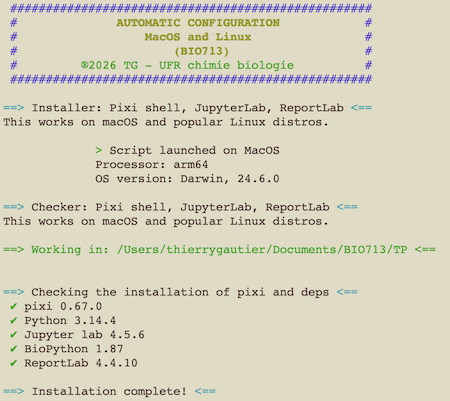
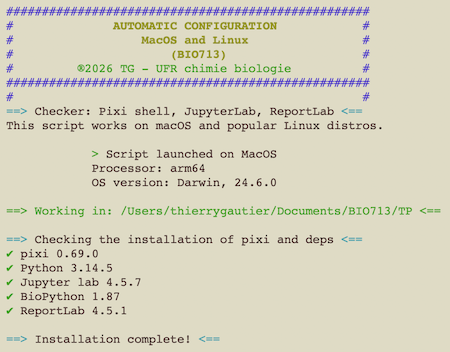
Polishing release V2.0

Changed region(s): [[0.0, 0.0, 0.9956, 1.0]]

diff --git a/README.md b/README.md
@@ -11,7 +11,10 @@ Please use carefully.
 
 ## Usage
 
-- Installation of the environment: To install the required modules, open your terminal (inside `Applications/Utilities` on MacOS) and type the following command. The script will create the folder hierarchy, install [pixi](https://pixi.prefix.dev/latest/advanced/pixi_shell/), [python](https://www.python.org/), [biopython](https://biopython.org/), [reportlab](https://docs.reportlab.com/) and [Jupyter Lab](https://jupyter.org/).
+- Installation of the environment: To install the required modules, open your terminal (inside `Applications/Utilities` on MacOS) and type the following command.
+- The script will create:
+    - the folder hierarchy
+    - install [pixi](https://pixi.prefix.dev/latest/advanced/pixi_shell/), [python](https://www.python.org/), [biopython](https://biopython.org/), [reportlab](https://docs.reportlab.com/) and [Jupyter Lab](https://jupyter.org/).
 
 ```
 ./Install
@@ -20,7 +23,8 @@ Please use carefully.
 
 ![pixi](imgs/install.png)
 
-- The activation and use of the environment will be explain during the class. In the meantime, you can check the validity of your installation by typing:
+- The activation and use of the environment will be explain during the class.
+- In the meantime, you can check the validity of your installation by typing:
 
 ```
 ./Install --check
@@ -31,9 +35,10 @@ Please use carefully.
 
 ![ubuntu](imgs/Ubuntu.png)
 
-## Check your environment directly from python
+## Checking your environment directly from python
 
-A python script is also provided to check the correct environment in `Python` or in `Jupyter`:
+- A python script is also provided to check the correct environment in `Python` or in `Jupyter.
+- This suppose that you already have a working python setup or that you successfully (re)install python.
 
 ```
 python Check.py
@@ -46,19 +51,19 @@ python Check.py
 
 ![help](imgs/found.png)
 
-Alernatively, you can copy-paste the code into a Jupyter cell and run the cell.
+- Alernatively, you can copy-paste the code into a Jupyter cell and run the cell.
 
 ## Prerequisites
 
-The scripts should work on any computer running a modern OS (MacOS from Sequoia+, or Linux)
-Unix users (MacOS and Linux) will need the terminal.app located in `Applications/Utilities` on MacOS systems (Adapt names if your OS is not running in US English language).
+- The scripts should work on any computer running a modern OS (MacOS from Sequoia+, or Debian/Ubuntu Linux).
+- Unix users (MacOS and Linux) will need the terminal.app located in `Applications/Utilities` on MacOS systems (Adapt names if your OS is not running in US English language).
 
-Another script for the `PowerShell` application on Windows machines is provided "as is". It had not been extensively tested so use with caution:
+- Another script for the `PowerShell` application on Windows machines is provided "as is". It has not been extensively tested, **so use with caution**:
 
-- Open PowerShell on your Windows machine and run the script or double-clik the script `Windows_Install.ps1`
-- In case of installation failure, proceed with the manual install.
+- Open `PowerShell` on your Windows machine and run the script or double-click the script `Windows_Install.ps1`
+- In case of an installation failure, proceed with the manual install instead (see the course Moodle page) or wait for the first practical session to sort out the installation issue(s).
 
-The activation and the manipulation of the environment will be discussed during the class.
+- The activation and the manipulation of the environment will be discussed during the class.
 
 ## Desinstallation
 
@@ -69,18 +74,20 @@ The activation and the manipulation of the environment will be discussed during 
 ```
 
 ![pixi](imgs/remove.png)
+
 - Windows users can revert by typing in the PowerShell:
 
 ```
 .\Win_install.ps1 -Remove
 ```
 
-The script will attempt to remove as much as possible:
+- The script will attempt to remove as much as possible:
 
-- The complete folder hierarchy containing all the downloaded data (`~/Documents/BIO713` and enclosed directories).
-- The module containing folder located in `~/Documents/BIO713/TP`.
-- The `pixi` program should be removed only when it was installed by the `Install.sh` script.
-- When `pixi` has been removed either programatically or manually, check that the path has also been cleaned by removing or commenting the line in your shell config file. Typically `~/.bashrc`, `~/.zshrc` or eventually `~/.config/fish/config.fish`. The file to look for is `export PATH="$HOME/.pixi/bin:$PATH"` or `fish_add_path $HOME/.pixi/bin`.
+    - The complete folder hierarchy containing all the downloaded data (`~/Documents/BIO713` and enclosed directories).
+    - The module containing folder located in `~/Documents/BIO713/TP`.
+    - The `pixi` program should be removed only when it was installed by the `Install` script.
+    - When `pixi` has been removed either programatically or manually, check that the path has also been cleaned by removing or commenting the line in your shell config file. Typically `~/.bashrc`, `~/.zshrc` or eventually `~/.config/fish/config.fish`.
+    - The line to look for is `export PATH="$HOME/.pixi/bin:$PATH"` for bash and zsh or `fish_add_path $HOME/.pixi/bin` for fish shell.
 
 ## Copyright
 
